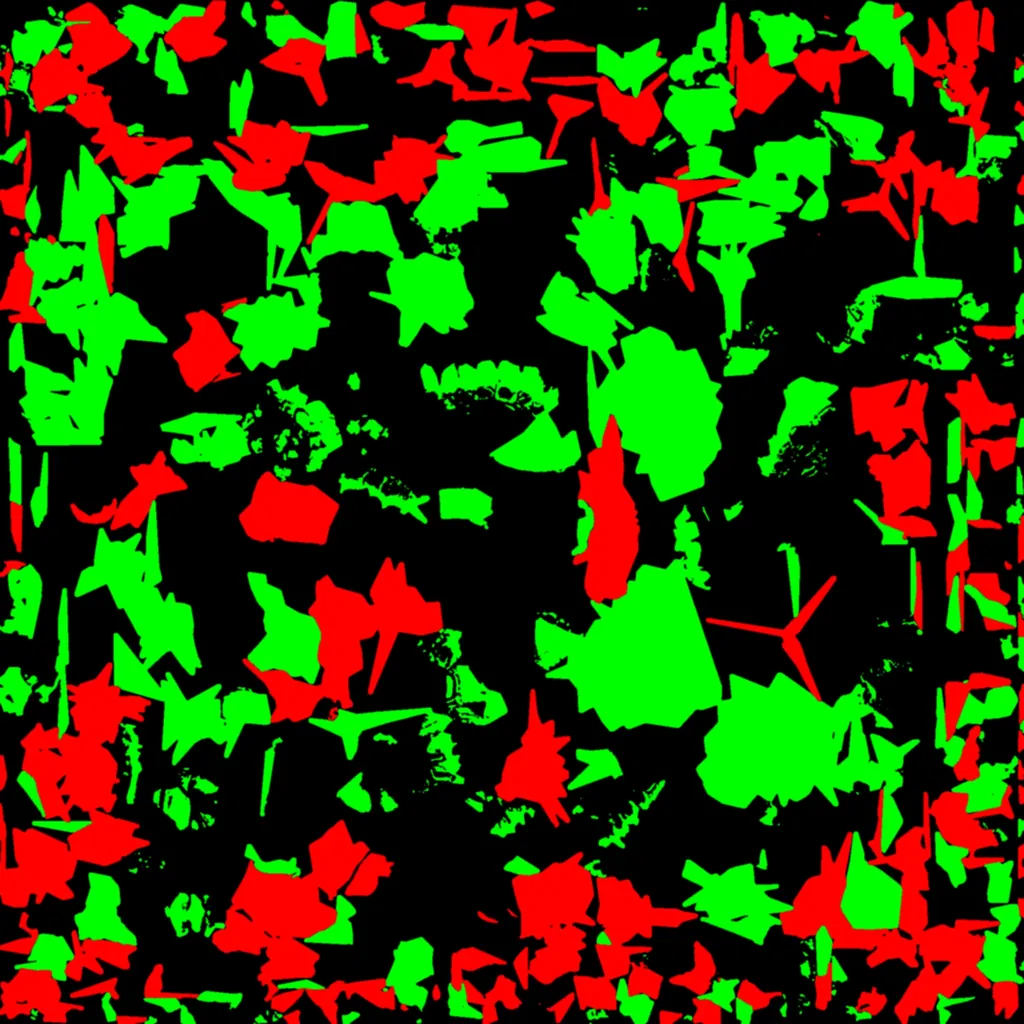
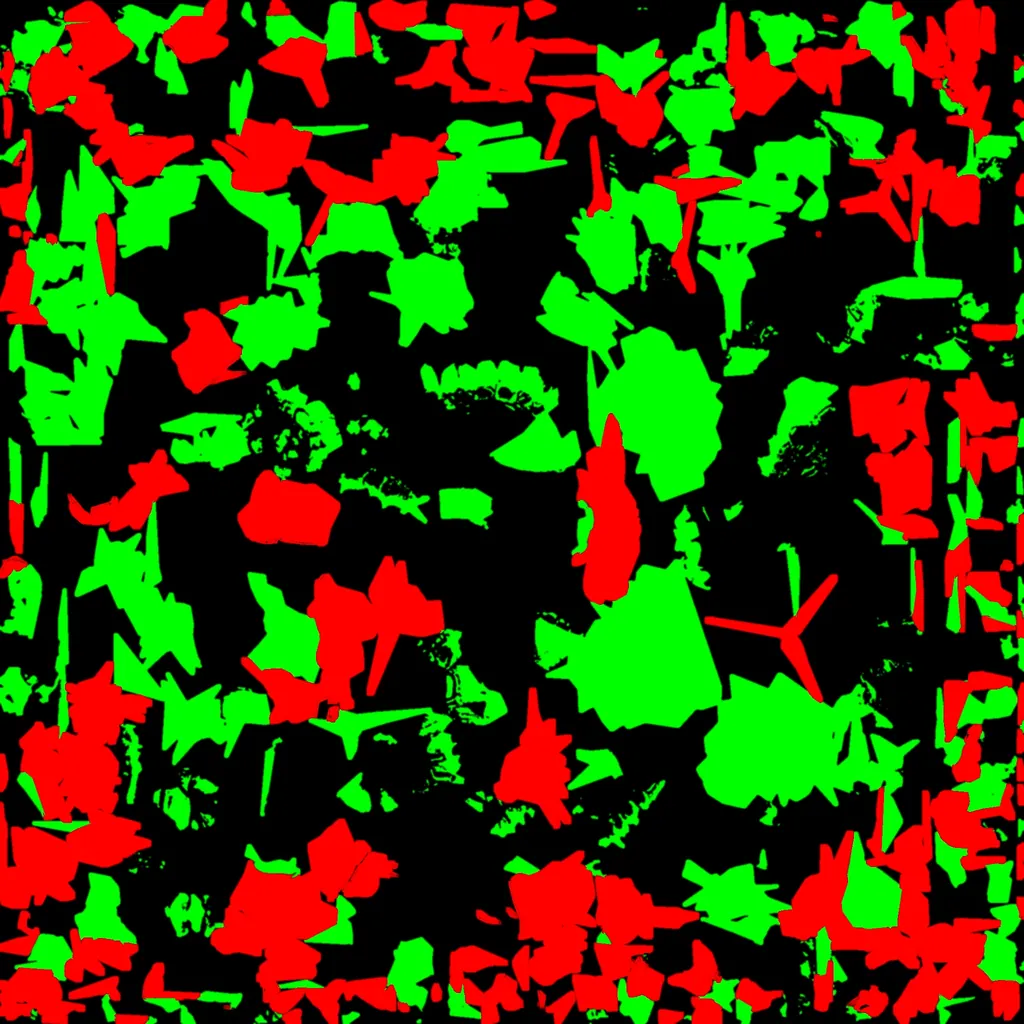
Porté : déplacer la vue zoomée, t-shirt sans rayures
- Zoomé, un doigt (ou la souris) déplace la vue ; le pincement zoome et déplace en suivant les doigts.
  Le − ou un double-clic revient à la vue entière (et à la rotation). Dans le studio, ces gestes ne
  tournent plus la scène.
- Masques refaits : toute la surface du t-shirt prend sa couleur (les coutures, plis et taches grises de la
  texture Meshy apparaissaient en clair, comme des rayures), et elle déborde de quelques pixels autour des
  îlots (plus de liseré blanc au col ni aux manches). Le cube de l'homme assis n'est plus teint.
  Adresses des modèles en ?v=7.

Claude-Session: https://claude.ai/code/session_017CRpNa7BC217D3pkaH4N2V

diff --git a/src/components/MannequinTryOn.tsx b/src/components/MannequinTryOn.tsx
@@ -59,8 +59,12 @@ const FRAG_BODY = `#include <map_fragment>
   diffuseColor.rgb = mix(mix(base, uSkin, skinM), fabric, teeM);`;
 
 type Drag = { rot: number; active: boolean };
-/** Zoom: `target` is set by the gestures (the camera follows it smoothly); `focusY` is the chest of the shown mannequin. */
-type View = { target: number; focusY: number };
+/**
+ * Zoom: `target` is set by the gestures (the camera follows it smoothly); `focusY` is the chest of the shown
+ * mannequin; `panX` / `panY` move the zoomed view (metres, back to 0 when the zoom is undone).
+ */
+type View = { target: number; focusY: number; panX: number; panY: number };
+const HALF_FOV = Math.tan((30 / 2) * (Math.PI / 180));
 const CAM_Y = -0.38, CAM_Z = 5.1, ZOOM_MAX = 2.8;
 const clampZoom = (z: number) => Math.min(ZOOM_MAX, Math.max(1, z));
 /** The studio's live print canvases: the mannequin then follows the studio (colour, turn, redraws) through teeState. */
@@ -68,7 +72,7 @@ export type StudioCanvases = { front: HTMLCanvasElement; back: HTMLCanvasElement
 const NO_PRINT: Print3D = {};
 
 // Bump MODELS_V when the files change: browsers and the service worker keep the old ones otherwise.
-const MODELS_V = 6;
+const MODELS_V = 7;
 const modelUrl = (id: Mannequin) => `/models/mannequins/${id}.glb?v=${MODELS_V}`;
 const maskUrl = (id: Mannequin) => `/models/mannequins/${id}-mask.webp?v=${MODELS_V}`;
 /** Starts downloading a mannequin (model + mask) so it shows at once when asked for. */
@@ -162,12 +166,14 @@ function Figure({ id, color, print, size, drag, studio, onFocus }: { id: Mannequ
 /** Moves the camera with the zoom: closer, and up to the chest, looking straight ahead. */
 function CameraRig({ view }: { view: React.RefObject<View> }) {
   const camera = useThree((st) => st.camera);
-  const zoom = useRef(1); // follows view.target smoothly
+  const cur = useRef({ zoom: 1, x: 0, y: 0 }); // follows the view smoothly
   useFrame((_, dt) => {
-    const v = view.current;
-    zoom.current += (v.target - zoom.current) * (1 - Math.exp(-dt * 8));
-    const t = (zoom.current - 1) / (ZOOM_MAX - 1);
-    camera.position.set(0, CAM_Y + (v.focusY - CAM_Y) * t, CAM_Z / zoom.current);
+    const v = view.current, c = cur.current, k = 1 - Math.exp(-dt * 10);
+    c.zoom += (v.target - c.zoom) * k;
+    c.x += (v.panX - c.x) * k;
+    c.y += (v.panY - c.y) * k;
+    const t = (c.zoom - 1) / (ZOOM_MAX - 1);
+    camera.position.set(c.x, CAM_Y + (v.focusY - CAM_Y) * t + c.y, CAM_Z / c.zoom);
   });
   return null;
 }
@@ -182,22 +188,36 @@ export default function MannequinTryOn({ color, print = NO_PRINT, size, studio, 
   const current = MANNEQUINS.find((m) => m.id === id)!;
   const drag = useRef<Drag>({ rot: 0.35, active: false });
   const last = useRef(0);
-  const view = useRef<View>({ target: 1, focusY: 0.4 });
+  const view = useRef<View>({ target: 1, focusY: 0.4, panX: 0, panY: 0 });
   const [zoomed, setZoomed] = useState(false);
+  // Moving the zoomed view: kept so the mannequin never leaves the frame.
+  const panBy = useCallback((dx: number, dy: number, height: number) => {
+    const v = view.current;
+    const perPx = (2 * (CAM_Z / v.target) * HALF_FOV) / Math.max(1, height);
+    v.panX = Math.min(0.7, Math.max(-0.7, v.panX - dx * perPx));
+    v.panY = Math.min(0.6, Math.max(-1.2, v.panY + dy * perPx));
+  }, []);
   const zoomTo = useCallback((z: number) => {
-    view.current.target = clampZoom(z);
-    setZoomed(view.current.target > 1.05);
+    const v = view.current;
+    v.target = clampZoom(z);
+    if (v.target <= 1.05) Object.assign(v, { target: 1, panX: 0, panY: 0 });
+    setZoomed(v.target > 1.05);
   }, []);
   const onFocus = useCallback((y: number) => {
     view.current.focusY = y;
   }, []);
   // Two fingers on the mannequin: pinch to zoom (one finger still turns it).
   const pointers = useRef(new Map<number, { x: number; y: number }>());
-  const pinch = useRef<{ dist: number; zoom: number } | null>(null);
+  const pinch = useRef<{ dist: number; zoom: number; mid: { x: number; y: number } } | null>(null);
   const spread = () => {
     const [a, b] = [...pointers.current.values()];
     return Math.hypot(a.x - b.x, a.y - b.y);
   };
+  const middle = () => {
+    const [a, b] = [...pointers.current.values()];
+    return { x: (a.x + b.x) / 2, y: (a.y + b.y) / 2 };
+  };
+  const panFrom = useRef<{ x: number; y: number } | null>(null); // one finger / the mouse, while zoomed
   // Trackpad pinch (or Ctrl + wheel) zooms; a plain wheel still scrolls the page.
   const area = useRef<HTMLDivElement>(null);
   useEffect(() => {
@@ -216,23 +236,46 @@ export default function MannequinTryOn({ color, print = NO_PRINT, size, studio, 
     <div className={`relative ${className}`}>
       <div
         ref={area}
-        className="h-full w-full touch-pan-y cursor-grab select-none active:cursor-grabbing"
+        className={`h-full w-full select-none ${zoomed ? "touch-none cursor-move" : "touch-pan-y cursor-grab active:cursor-grabbing"}`}
         onPointerDown={(e) => {
           pointers.current.set(e.pointerId, { x: e.clientX, y: e.clientY });
+          try {
+            e.currentTarget.setPointerCapture(e.pointerId); // keep the moves even if the finger leaves the area
+          } catch {
+            // the pointer is already gone (e.g. a very quick tap): nothing to keep
+          }
           if (pointers.current.size === 2) {
-            pinch.current = { dist: spread(), zoom: view.current.target };
+            pinch.current = { dist: spread(), zoom: view.current.target, mid: middle() };
             drag.current.active = false;
+            panFrom.current = null;
+            e.stopPropagation(); // not a turn of the studio's stage
+            return;
+          }
+          if (view.current.target > 1.05) {
+            // zoomed: one finger (or the mouse) moves the view; − or a double-click to turn it again
+            panFrom.current = { x: e.clientX, y: e.clientY };
+            e.stopPropagation();
             return;
           }
           if (studio) return; // the studio's stage turns it
           drag.current.active = true;
           last.current = e.clientX;
-          e.currentTarget.setPointerCapture(e.pointerId);
         }}
         onPointerMove={(e) => {
           if (pointers.current.has(e.pointerId)) pointers.current.set(e.pointerId, { x: e.clientX, y: e.clientY });
+          const h = e.currentTarget.clientHeight;
           if (pinch.current && pointers.current.size === 2) {
+            e.stopPropagation();
             zoomTo((pinch.current.zoom * spread()) / Math.max(1, pinch.current.dist));
+            const m = middle();
+            panBy(m.x - pinch.current.mid.x, m.y - pinch.current.mid.y, h);
+            pinch.current.mid = m;
+            return;
+          }
+          if (panFrom.current) {
+            e.stopPropagation();
+            panBy(e.clientX - panFrom.current.x, e.clientY - panFrom.current.y, h);
+            panFrom.current = { x: e.clientX, y: e.clientY };
             return;
           }
           if (!drag.current.active) return;
@@ -242,16 +285,18 @@ export default function MannequinTryOn({ color, print = NO_PRINT, size, studio, 
         onPointerUp={(e) => {
           pointers.current.delete(e.pointerId);
           if (pointers.current.size < 2) pinch.current = null;
+          panFrom.current = null;
           drag.current.active = false;
         }}
         onPointerCancel={(e) => {
           pointers.current.delete(e.pointerId);
           pinch.current = null;
+          panFrom.current = null;
           drag.current.active = false;
         }}
         onDoubleClick={() => zoomTo(view.current.target > 1.05 ? 1 : 2.2)}
         role="img"
-        aria-label={`T-shirt porté par ${current.gender === "duo" ? "deux mannequins, homme et femme" : `un mannequin ${current.gender}, look ${current.look.toLowerCase()}`}, taille ${size}. Fais glisser pour le tourner, pince pour zoomer.`}
+        aria-label={`T-shirt porté par ${current.gender === "duo" ? "deux mannequins, homme et femme" : `un mannequin ${current.gender}, look ${current.look.toLowerCase()}`}, taille ${size}. Fais glisser pour le tourner, pince pour zoomer ; zoomé, fais glisser pour te déplacer.`}
       >
         <Safe3D>
           <Canvas dpr={[1, 1.5]} camera={{ position: [0, CAM_Y, CAM_Z], fov: 30 }} gl={{ antialias: true, alpha: true }} onCreated={({ gl }) => colorTrue(gl)}>
